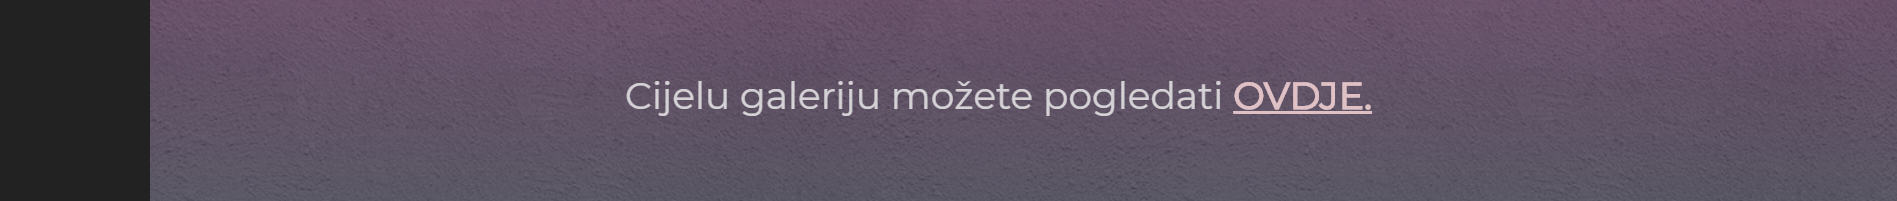
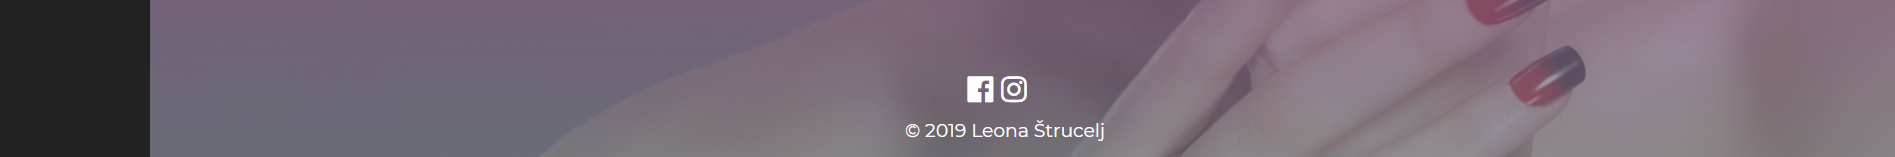
popravak pozadine

diff --git a/css/uredi.css b/css/uredi.css
@@ -3,7 +3,7 @@
     background-position: center; /* Center the image */
     background-size: cover; /* Resize the background image to cover the entire container */
     width: 900px;
-    background: linear-gradient(mediumvioletred,rgba(141, 153, 174, 0.5)), url("./slike/nokti10.png") no-repeat fixed;
+    background: linear-gradient(mediumvioletred,rgba(141, 153, 174, 0.5)), url("../slike/nokti10.png") no-repeat fixed;
 }
 
 #tekstpocetna{

diff --git a/upit.php b/upit.php
@@ -19,12 +19,12 @@ $baza->spojiDB();
     <link rel="stylesheet" href="https://fonts.googleapis.com/css?family=Montserrat">
     <link rel="stylesheet" href="https://cdnjs.cloudflare.com/ajax/libs/font-awesome/4.7.0/css/font-awesome.min.css">
     <link href="https://fonts.googleapis.com/css?family=Emilys+Candy&display=swap" rel="stylesheet">
+    <link rel="stylesheet" type="text/css" href="css/pozadina.css">
 </head>
 
 <style>
 body, h1,h2,h3,h4,h5,h6 {
-font-family: "Montserrat",
-sans-serif
+font-family: "Montserrat", sans-serif
 }
 .w3-row-padding img {
 margin-bottom: 12px
@@ -36,11 +36,8 @@ background: #222;
 }
 
 #popravi{
-     /* You must set a specified height */
-    background-position: center; /* Center the image */
-    background-repeat: no-repeat; /* Do not repeat the image */
     background-size: cover; /* Resize the background image to cover the entire container */
-    background: linear-gradient(mediumvioletred,rgba(141, 153, 174, 0.5)), url("nokti10.png") no-repeat fixed;
+    background: linear-gradient(mediumvioletred,rgba(141, 153, 174, 0.5)), url("./slike/nokti10.png") no-repeat fixed;
 }
 
 .w3-content{

diff --git a/rezervacija.php b/rezervacija.php
@@ -47,6 +47,8 @@ $result = $statement->fetchAll();
     <link rel="stylesheet" href="css/timeline.min.css" />
     <link rel="stylesheet" type="text/css" href="css/rezervacija.css">
     <link rel="stylesheet" type="text/css" href="css/termini.css">
+        <link rel="stylesheet" type="text/css" href="css/uredi.css">
+
     <link href="https://fonts.googleapis.com/css?family=Roboto:300,400,500,700" rel="stylesheet">
     <link rel="stylesheet" href="https://use.fontawesome.com/releases/v5.5.0/css/all.css" integrity="sha384-B4dIYHKNBt8Bc12p+WXckhzcICo0wtJAoU8YZTY5qE0Id1GSseTk6S+L3BlXeVIU" crossorigin="anonymous">
     <link href="http://maxcdn.bootstrapcdn.com/font-awesome/4.1.0/css/font-awesome.min.css" rel="stylesheet">
@@ -260,9 +262,6 @@ background: #222;
 <script>
 $(document).ready(function(){
  jQuery('.timeline').timeline({
-  //mode: 'horizontal',
-  //visibleItems: 4
-  //Remove this comment for see Timeline in Horizontal Format otherwise it will display in Vertical Direction Timeline
  });
 });
 </script>

diff --git a/rezervacijabaza.php b/rezervacijabaza.php
@@ -47,3 +47,4 @@ echo "Vrijeme mora biti unešeno!";
 die();
 }
 ?>
+
